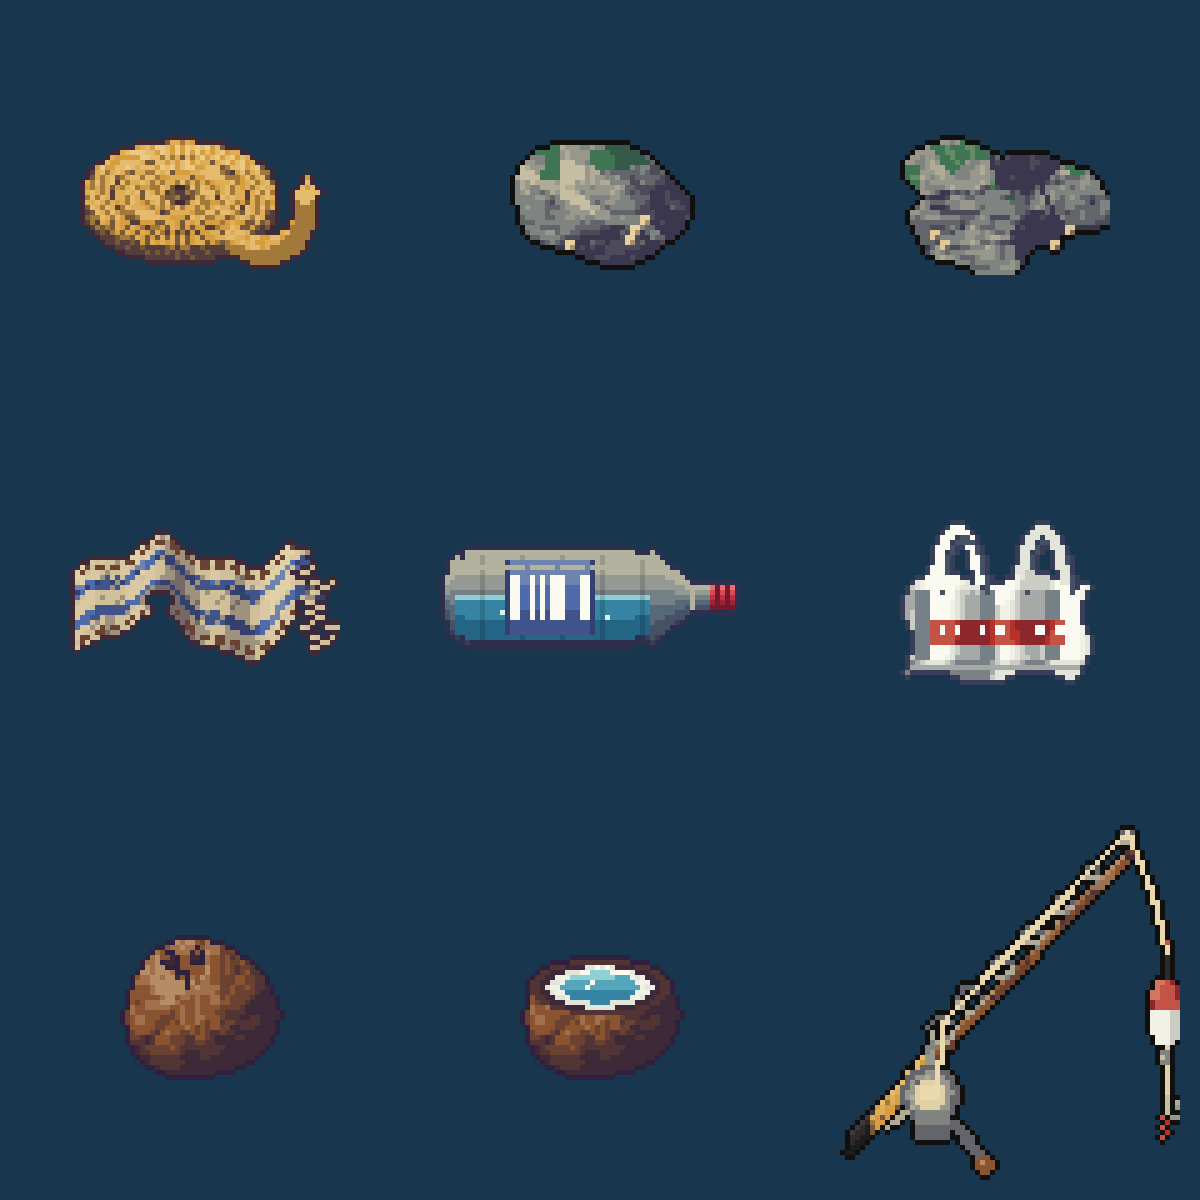
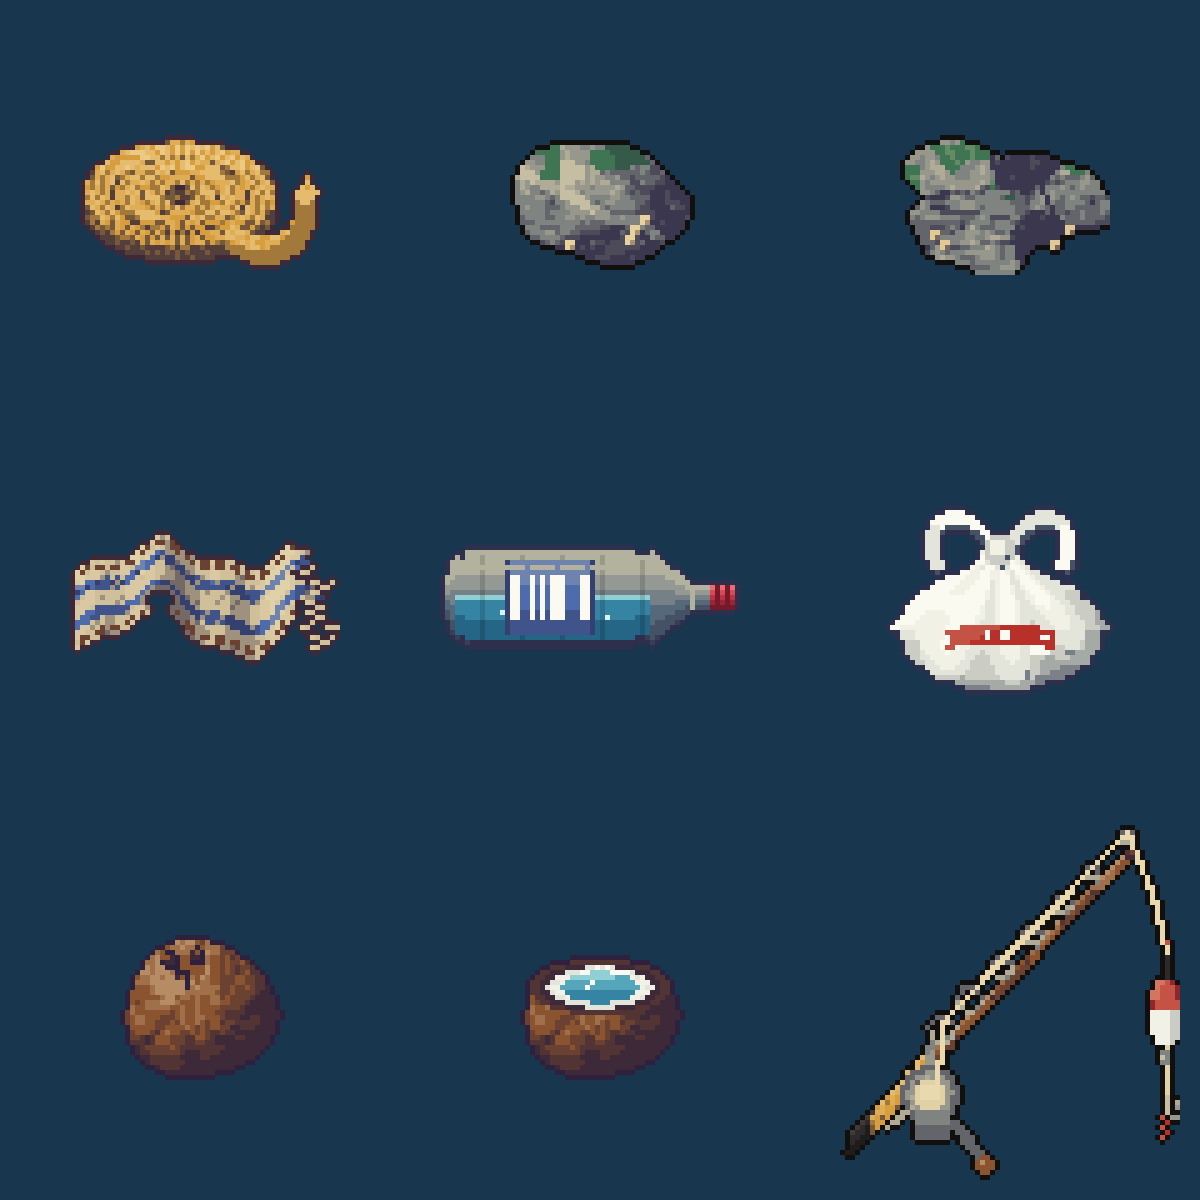
Redraw plastic bag as a knotted bulging bag
Claude-Session: https://claude.ai/code/session_01StugNUrjnQmKyw4JosAoSb

Changed region(s): [[0.74, 0.4008, 0.925, 0.5858]]

diff --git a/games/farmhouse/pixel/gen_items_hd.py b/games/farmhouse/pixel/gen_items_hd.py
@@ -145,34 +145,37 @@ def cloth():
         for i in range(3 + k % 3): c.p(xx + i + (1 if k % 2 else 0), yy + (i // 2) * (1 if k % 2 else -1), 'C', 5 if i == 0 else 4)
     c.outline(('D', 1)); return c
 
-# ================================================================ ビニール袋（スーパーの袋：持ち手2つ・赤い印字・底のまち）
+# ================================================================ ビニール袋（口をしばってふくらんだ袋：結び目・ふたつの耳・放射状のしわ）
 def bag():
-    c = Cv(48, 40); X = c.X + .5; Y = c.Y + .5
-    xs = np.arange(c.w) + .5
-    topE = 16 + 1.6 * np.sin(xs * .35 + .4)                                              # 口のふち（波）
-    botE = 35 + 1.4 * np.sin(xs * .30 + 1.7)
-    L = 6 + (Y - 24) * .06 + 1.2 * np.sin(Y * .5); R = 41 - (Y - 24) * .05 + 1.2 * np.sin(Y * .45 + 1)
-    m = (Y > topE[None, :].repeat(c.h, 0)) & (Y < botE[None, :].repeat(c.h, 0)) & (X > L) & (X < R)
-    u = (X - 6) / 35.0; v = (Y - 16) / 19.0
-    fold = np.sin(u * 17.0 + .4) * .8 + np.sin(u * 7.0 + v * 3 + 1) * .9 + np.cos(v * 9 - u * 3) * .35
-    gx = np.gradient(fold, axis=1)
-    s = 5 + np.round(-gx * 7.0) + np.round((.5 - v) * .8)                                  # 大きなしわのかげ
+    c = Cv(46, 42); X = c.X + .5; Y = c.Y + .5
+    kx, ky = 23.0, 10.5
+    ell = (((X - 23) / 20.0) ** 2 + ((Y - 27) / 12.2) ** 2) < 1 + .05 * np.sin((X + Y) * .7)
+    cone = (Y > ky) & (Y < 27) & (np.abs(X - kx) < 2.2 + (Y - ky) * 1.18 + .8 * np.sin(Y * .8))
+    m = ell | cone
+    ang = np.arctan2(X - kx, Y - ky); dist = np.hypot(X - kx, (Y - ky) * .8)
+    fold = np.sin(ang * 11.0 + .3) * np.exp(-dist / 26.0) * 1.3                      # 結び目から広がるしわ
+    z = np.clip(1 - (((X - 23) / 20.0) ** 2 + ((Y - 27) / 12.2) ** 2), 0, 1)
+    lam = (-(X - 23) / 20.0) * .5 + (-(Y - 27) / 12.2) * .6 + np.sqrt(z) * .3
+    s = 5 + np.round(lam * 2.6 + fold * 1.4)
     c.mask(m, 's', np.clip(s, 3, 7).astype(int))
-    thin = m & (np.sin(u * 17.0 + .4) > .72); c.mask(thin, 'S', 5)                         # うすい所は青白く
-    c.mask(m & (v > .86), 's', np.clip(s - 2, 2, 5).astype(int))                             # 底のかげ
-    c.mask(m & (np.abs(v - .93) < .03), 's', 3)                                              # 底のまちの線
-    c.mask(m & (np.abs(u - .5) < .02) & (v > .2) & (v < .86) & (np.arange(c.h)[:, None] % 4 != 0), 's', 4)   # 中央の折り目
-    # 赤い印字（帯と文字ブロック）
-    band = m & (v > .40) & (v < .66) & (u > .12) & (u < .88)
-    c.mask(band, 'G', np.clip(4 - np.round(gx * 5), 3, 5).astype(int))
-    txt = band & (((np.floor(X) + 1) % 4) < 2) & (np.abs(v - .53) < .07) & (h2(np.floor(X / 2).astype(int), 9, 3) > .25); c.mask(txt, 's', 7)
-    # 持ち手（左右の輪）と、そこから口へのつけ根
+    thin = m & (s <= 4) & (np.sin(ang * 11.0 + .3) > .2); c.mask(thin, 'S', np.clip(s + 1, 3, 5).astype(int))
+    c.mask(m & ((((X - 23) / 20.0) ** 2 + ((Y - 27) / 12.2) ** 2) > .72) & (Y > 27), 's', np.clip(s - 1, 2, 5).astype(int))    # ふちのかげ（下）
+    # 大きなつや（左上）
+    sp = m & (np.hypot((X - 14) / 4.2, (Y - 22) / 2.0 - (X - 14) * .08) < 1); c.mask(sp, 's', 7)
+    sp2 = m & (np.hypot((X - 31) / 2.0, (Y - 31) / 1.2) < 1); c.mask(sp2, 's', 7)
+    # 赤い印字（ふくらみに沿ってカーブ）
+    ny = (Y - 27) / 12.2; nx = (X - 23) / 20.0
+    band = m & (np.abs(ny - (.08 + .22 * nx * nx)) < .16) & (nx > -.55) & (nx < .55)
+    c.mask(band, 'G', np.clip(4 + np.round(lam * 1.6), 2, 5).astype(int))
+    txt = band & (((np.floor(X) + 1) % 4) < 2) & (np.abs(ny - (.08 + .22 * nx * nx)) < .07) & (h2(np.floor(X / 2).astype(int), 9, 3) > .3); c.mask(txt, 's', 7)
+    # 耳（持ち手のたば）
     for sx in (-1, 1):
-        cx_ = 24 + sx * 8.5
-        pts = bez((cx_ - sx * 4.2, 16.5), (cx_ - sx * 4, 3), (cx_ + sx * 4, 3), (cx_ + sx * 4.2, 16.5), 60)
-        for (x, y) in pts: c.disc(x, y, 1.1, 's', 7 if sx < 0 else 5); c.p(x + 1, y + 1, 'S', 3)
-    c.mask(m & (v < .12), 's', np.clip(s + 1, 4, 7).astype(int))
-    c.outline(('S', 2)); return c
+        pts = bez((kx + sx * 1.5, ky), (kx + sx * 7, ky - 11), (kx + sx * 17, ky - 5), (kx + sx * 12.5, ky + 3.5), 70)
+        for i, (x, y) in enumerate(pts):
+            c.disc(x, y, 1.3, 's', 7 if (sx < 0) ^ (i > 45) else 5); c.p(x + sx * .6, y + 1.2, 'S', 3)
+    # 結び目
+    c.disc(kx, ky + .5, 3.0, 's', 4); c.disc(kx - .6, ky - .2, 1.8, 's', 6); c.p(kx + 1, ky + 2, 'S', 3); c.p(kx, ky + 3, 'S', 3)
+    c.outline(('S', 1)); return c
 
 # ================================================================ ペットボトル
 def bottle():
